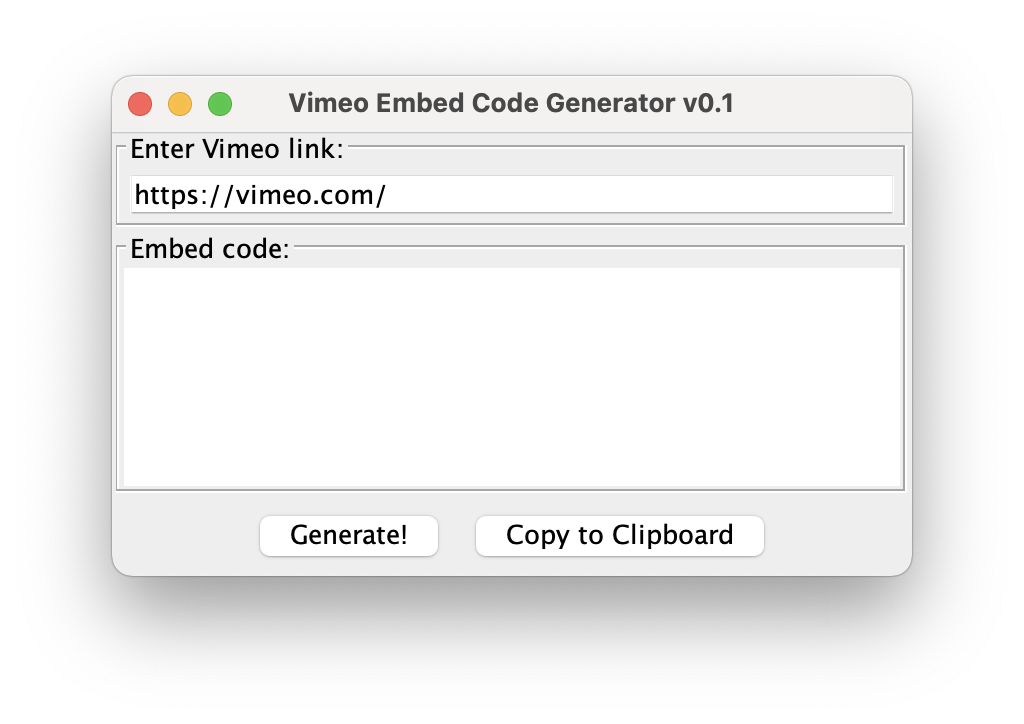
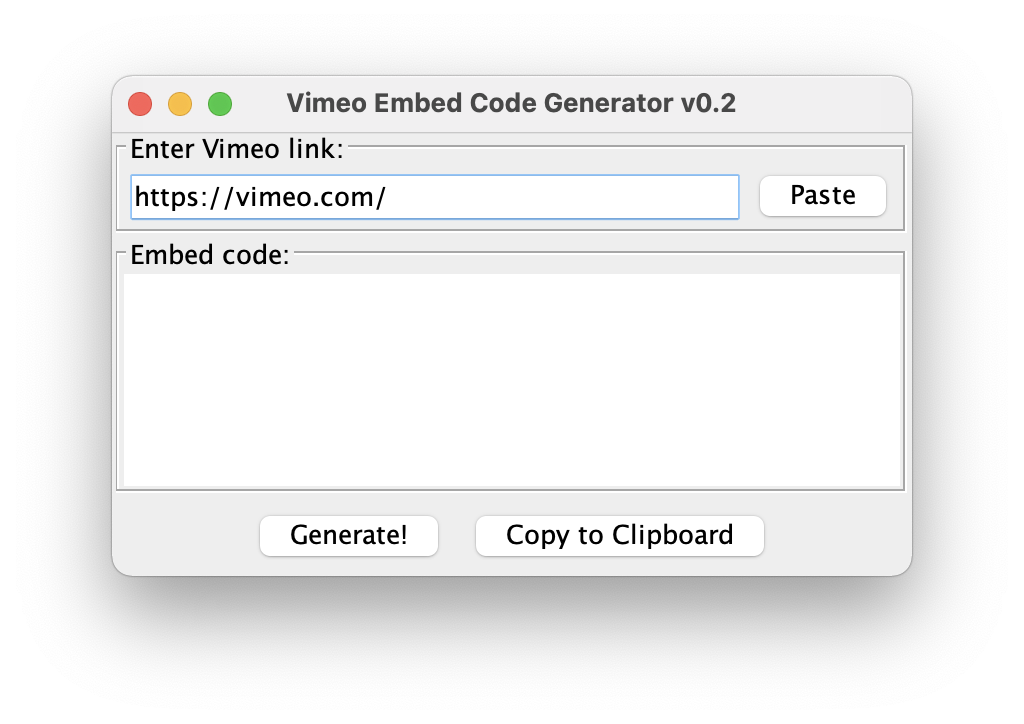
updated readme etc...

Changed region(s): [[0.125, 0.2431, 0.875, 0.3646], [0.2812, 0.1215, 0.7188, 0.1519]]

diff --git a/README.md b/README.md
@@ -10,13 +10,14 @@ This program was developed for staff and faculty at the Colorado School of Mines
 </center>
 
 ## Download
-* [Version 0.1](https://github.com/calebfarnie/VimeoEmbedCodeGenerator/raw/main/versions/VimeoEmbedCodeGenerator_v0_1.jar)
+* [Vimeo Embed Code Generator v0.2](https://github.com/calebfarnie/VimeoEmbedCodeGenerator/raw/main/versions/VimeoEmbedCodeGenerator_v0_2.jar) (most recent)
+* [Vimeo Embed Code Generator v0.1](https://github.com/calebfarnie/VimeoEmbedCodeGenerator/raw/main/versions/VimeoEmbedCodeGenerator_v0_1.jar)
 
 ## Usage
-+ Paste or enter the Vimeo URL into the "Enter Vimeo link:" box
-+ Click "Generate!"
-+ Click "Copy to Clipboard" to copy the embed code to the clipboard
-+ That's it!
+* Paste or enter the Vimeo URL into the "Enter Vimeo link:" box
+* Click "Generate!"
+* Click "Copy to Clipboard" to copy the embed code to the clipboard
+* That's it!
  
 ## Contributors
 
@@ -28,6 +29,8 @@ This program was developed for staff and faculty at the Colorado School of Mines
 
 ## Version 
 * Version 0.1 - initial version.
+* Version 0.2
+    * Added 'paste' functionality for Vimeo link
 
 ## Contact
 #### Developer
